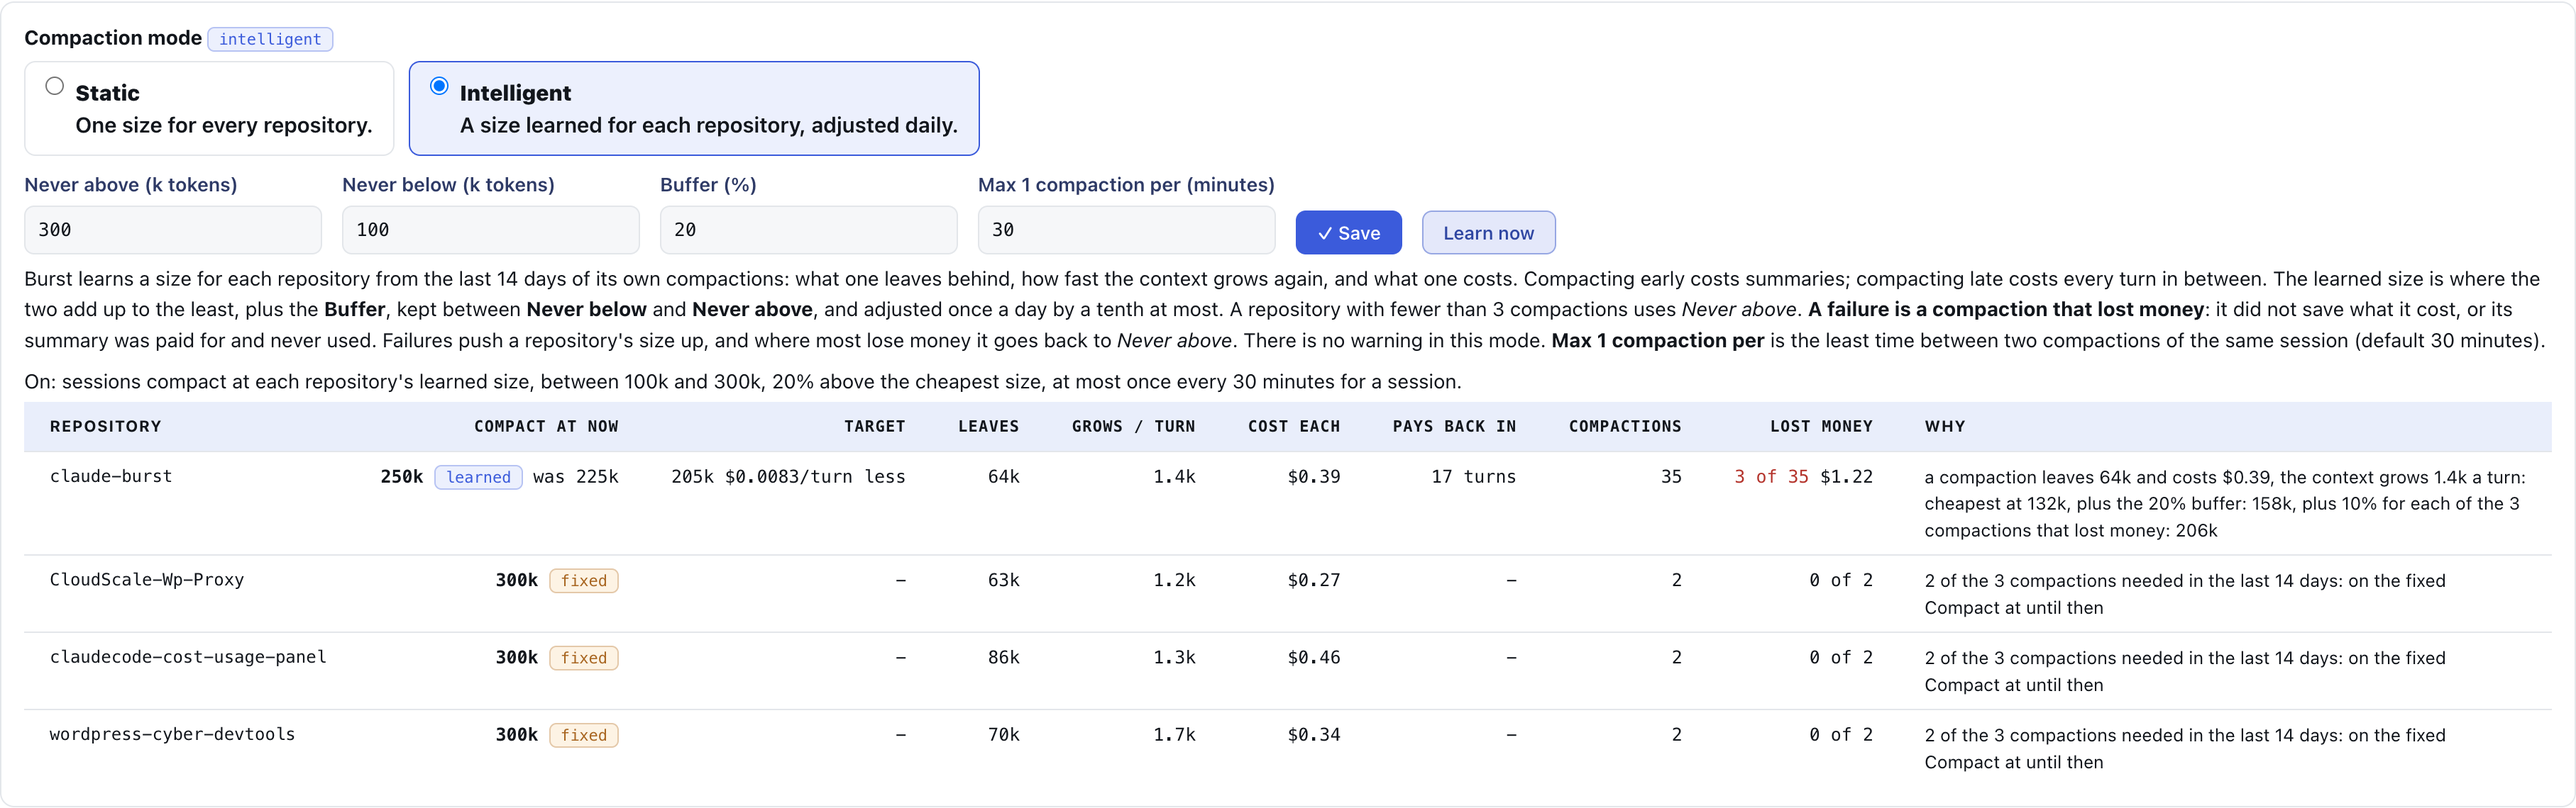
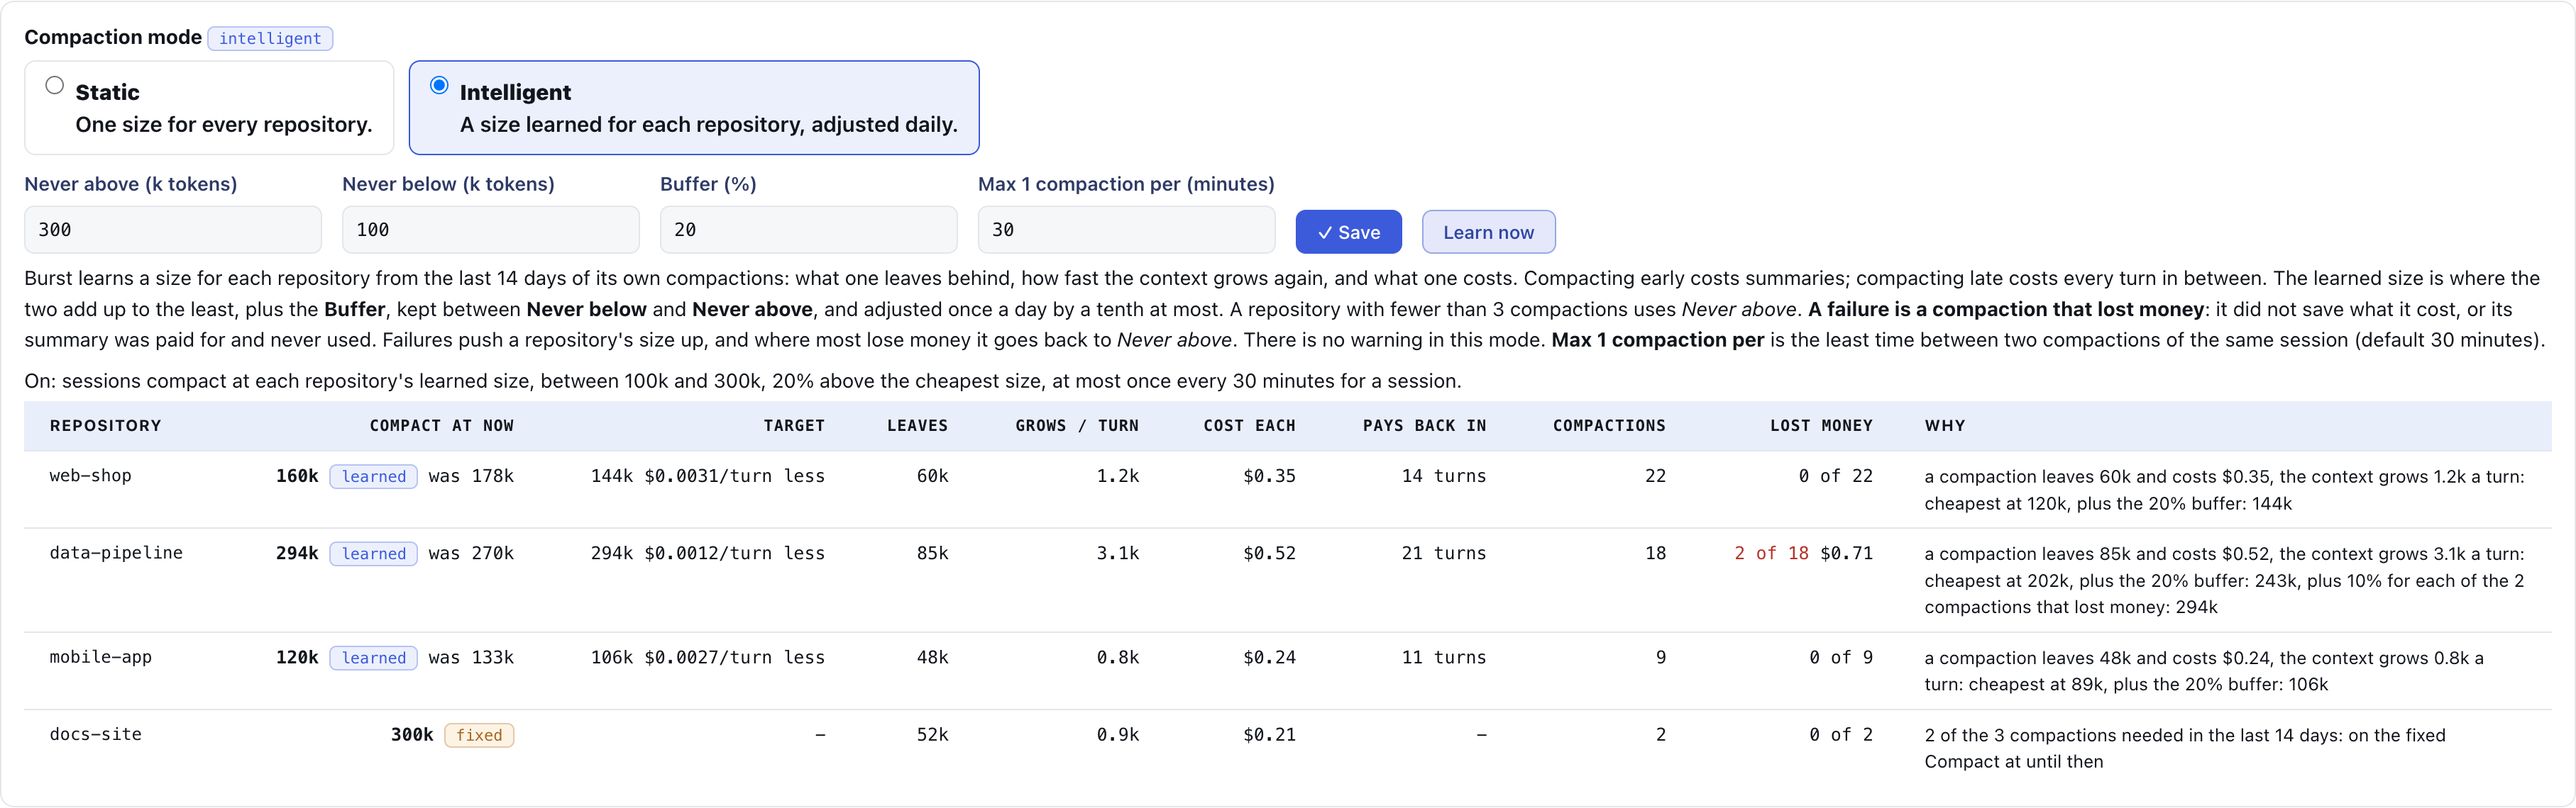
Docs: the Intelligent Compaction screenshot is an illustration with example repositories, and the worked example follows it

diff --git a/README.md b/README.md
@@ -226,9 +226,9 @@ The details, with five worked examples, are in [Two copies of the conversation](
 <a id="intelligent-compaction-mode"></a>
 **Intelligent Compaction Mode: the size is learned, not guessed.** One *Compact at* for every repository is a guess, and it is wrong in both directions: a repository of small edits is compacted later than it should be, and one of long tool runs is summarised over and over. Set **Compaction mode** to **Intelligent** and Burst finds the size for each repository where the two costs add up to the least:
 
-![Intelligent Compaction Mode on the dashboard: each repository with the size in force, the target, what a compaction leaves, growth per turn, cost, payback, the compactions that lost money, and the reason in words](docs/screenshots/intelligent-compaction.png)
+![Intelligent Compaction Mode on the dashboard: each repository with the size in force, the target, what a compaction leaves, growth per turn, cost, payback, the compactions that lost money, and the reason in words. Illustration: example repositories](docs/screenshots/intelligent-compaction.png)
 
-- **It is arithmetic on your own log, not a model's opinion.** With a compaction leaving `A` tokens, the context growing `g` a turn and a compaction costing `c`, the cheapest size is `A + sqrt(2 * g * (A + c))`. In the screenshot, `claude-burst` (35 compactions in 14 days) leaves 64k, grows 1.4k a turn and pays $0.39 a summary, so its cheapest size is 132k, not the fixed 300k.
+- **It is arithmetic on your own log, not a model's opinion.** With a compaction leaving `A` tokens, the context growing `g` a turn and a compaction costing `c`, the cheapest size is `A + sqrt(2 * g * (A + c))`. In the illustration, `web-shop` leaves 60k, grows 1.2k a turn and pays $0.35 a summary, so its cheapest size is 120k, while `data-pipeline`, with its long tool runs, is cheapest at 202k. One fixed 300k suits neither.
 - **It is careful with your money.** A buffer (20%) sits on top of the cheapest size, a floor (100k) under it and your fixed *Compact at* above it. It moves a tenth a day at most, and learns nothing from fewer than 3 compactions.
 - **It never loses money twice.** A compaction that did not pay for itself raises that repository's size by 10% at once, and a repository where most of them lose goes back to the fixed size.
 - **It tells you why.** Every row ends with its reasoning in a sentence, so no number has to be taken on trust. **Learn now** recalculates on the spot, and a per-repository override always wins.

diff --git a/docs/compaction.md b/docs/compaction.md
@@ -184,9 +184,9 @@ and no summary request was made.
 
 **Burst works out when to compact each repository, from that repository's own history, and shows its reasoning.** Compacting early costs summaries; compacting late costs every turn in between. Where the two add up to the least is different for every repository, and it moves as the work changes.
 
-![Intelligent Compaction Mode on the dashboard: each repository with the size in force, the target, what a compaction leaves, growth per turn, cost, payback, the compactions that lost money, and the reason in words](screenshots/intelligent-compaction.png)
+![Intelligent Compaction Mode on the dashboard: each repository with the size in force, the target, what a compaction leaves, growth per turn, cost, payback, the compactions that lost money, and the reason in words. Illustration: example repositories](screenshots/intelligent-compaction.png)
 
-In the screenshot `claude-burst` has 35 compactions in its 14 days: one leaves 64k and costs $0.39, and the context grows 1.4k a turn, so the cheapest size is 132k. The 20% buffer makes that 158k, and three compactions that lost money add 10% each: a target of 206k, against the fixed 300k. The size in force is 250k: it moves towards the target by a tenth a day at most, and a compaction that loses money lifts it by a tenth at once (it was 225k the day before). The other three repositories have had 2 of the 3 compactions needed, so they stay on the fixed size and say so.
+The repositories in the picture are examples. `web-shop` has 22 compactions in its 14 days: one leaves 60k and costs $0.35, and the context grows 1.2k a turn, so the cheapest size is 120k, and the 20% buffer makes the target 144k. The size in force (160k, 178k the day before) moves towards it by a tenth a day at most. `data-pipeline` grows 3.1k a turn, so it is cheapest at 202k; the buffer makes that 243k, and two compactions that lost money add 10% each, at once: 294k. `docs-site` has had 2 of the 3 compactions needed, so it stays on the fixed size and says so.
 
 One *Compact at* does not suit every repository. With **Mode** set to **Intelligent Compaction Mode** (dashboard, Pauseless Compaction), Burst learns a *Compact at* for each repository from the last 14 days of that repository's own compactions:
 
